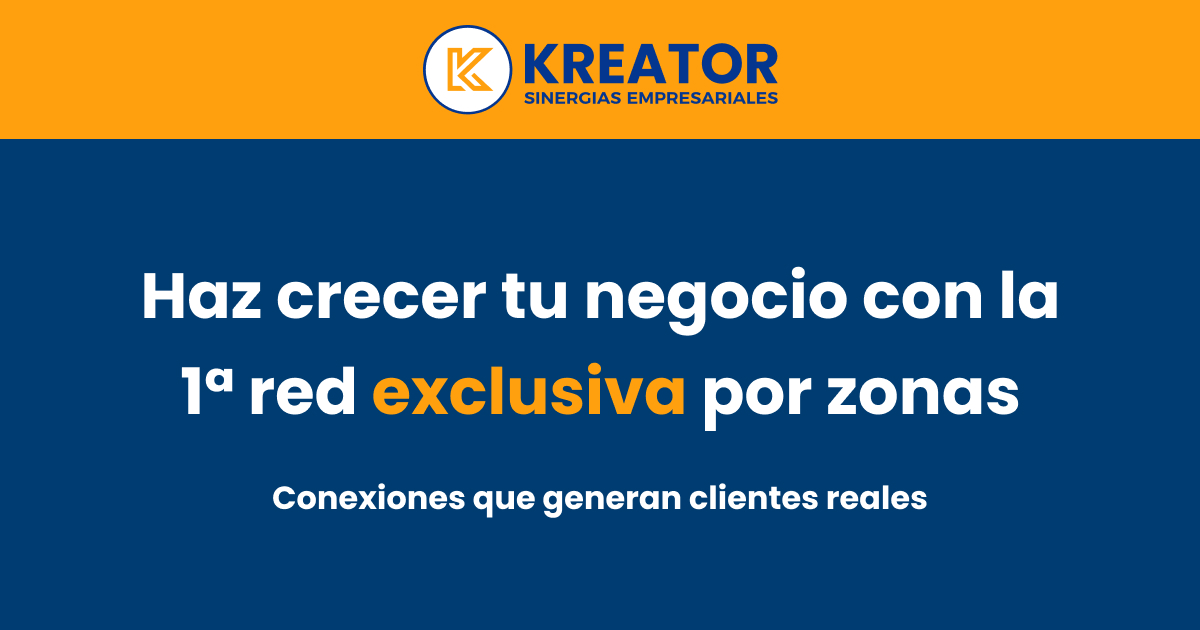
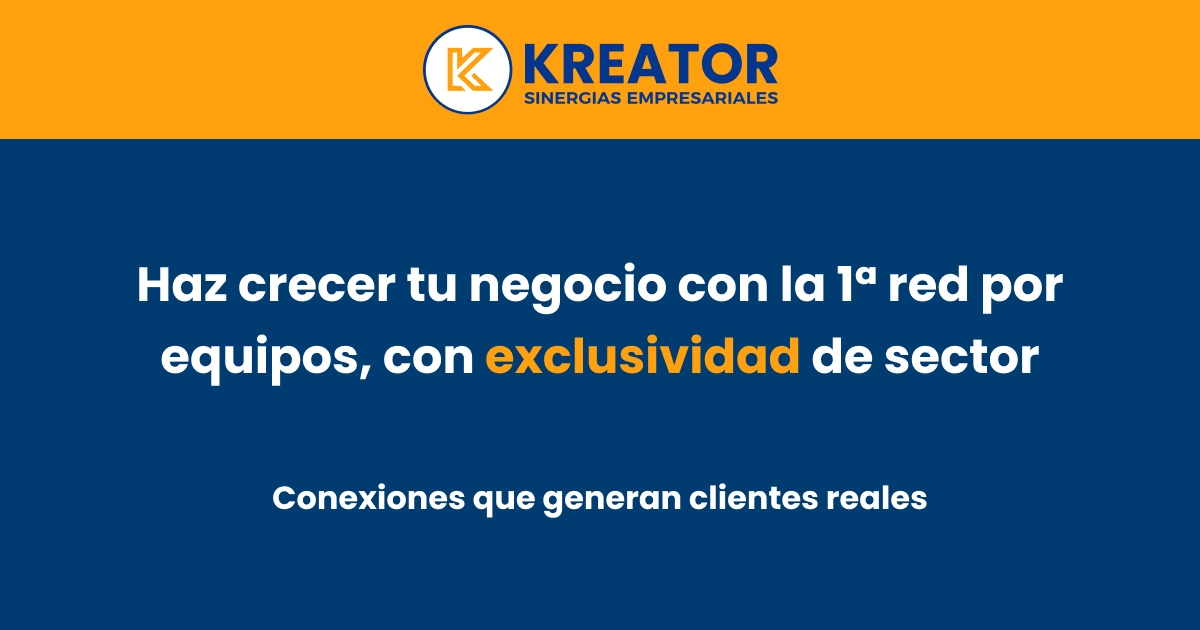
fix: update brand copy, layout metadata, and OG image to match new positioning

Changed region(s): [[0.0925, 0.4222, 0.8942, 0.6937], [0.3392, 0.0302, 0.6475, 0.181], [0.0, 0.2111, 1.0, 0.2413]]

diff --git a/src/app/layout.tsx b/src/app/layout.tsx
@@ -34,17 +34,17 @@ const baseUrl =
   (process.env.VERCEL_URL ? `https://${process.env.VERCEL_URL}` : "https://kreator-omega.vercel.app")
 
 export const metadata: Metadata = {
-  title: "Kreator - La 1ª Red Exclusiva por Zonas para Profesionales y Pymes",
+  title: "Kreator - La 1ª Comunidad Empresarial Colaborativa por Equipos",
   description:
-    "Únete a la primera red empresarial exclusiva por zonas. Un solo profesional por sector en tu área. Multiplica tus oportunidades, genera comisiones y amplía tu red de contactos. Sin permanencia.",
+    "Kreator es la primera comunidad empresarial colaborativa por equipos, creada para autónomos y pymes que quieren vender más, generar contactos de calidad y crecer en red. En cada equipo solo puede haber un profesional por sector, pero en una misma zona pueden coexistir varios equipos según el volumen de negocio disponible.",
   metadataBase: new URL(baseUrl),
   alternates: {
     canonical: "/",
   },
   openGraph: {
-    title: "Kreator - La 1ª Red Exclusiva por Zonas para Profesionales",
+    title: "Kreator - Comunidad Empresarial por Equipos para Profesionales y Pymes",
     description:
-      "Un solo profesional por sector en tu área. Multiplica tus oportunidades gracias a los contactos de todo tu equipo. Reserva tu plaza ahora.",
+      "Forma parte de la primera comunidad empresarial colaborativa por equipos. En cada equipo solo puede haber un profesional por sector, pero pueden existir varios equipos por zona según la demanda. Expande tu red, gana visibilidad y multiplica tus oportunidades.",
     url: baseUrl,
     siteName: "Kreator",
     images: [
@@ -52,7 +52,7 @@ export const metadata: Metadata = {
         url: `${baseUrl}/og-image.jpg`,
         width: 1200,
         height: 630,
-        alt: "Kreator - Red Exclusiva por Zonas para Profesionales",
+        alt: "Kreator - Comunidad Empresarial por Equipos para Profesionales y Pymes",
       },
     ],
     locale: "es_ES",
@@ -73,6 +73,7 @@ export const metadata: Metadata = {
     google: "your-google-verification-code",
   },
 }
+
 
 export default function RootLayout({
   children,

diff --git a/src/app/sitemap.ts b/src/app/sitemap.ts
@@ -1,12 +1,26 @@
 import type { MetadataRoute } from "next"
 
 export default function sitemap(): MetadataRoute.Sitemap {
-  const site = process.env.NEXT_PUBLIC_SITE_URL ?? "https://kreator.team"
-  const indexable = process.env.NEXT_PUBLIC_INDEXABLE === "true"
-  if (!indexable) return [] // do not generate sitemap until go-live
+  const site =
+    process.env.NEXT_PUBLIC_SITE_URL ??
+    (process.env.VERCEL_URL ? `https://${process.env.VERCEL_URL}` : "https://kreator-omega.vercel.app")
 
+  // Allows you to generate the sitemap both in production and in preview (if you want to see the OG working).
+  const indexable = process.env.NEXT_PUBLIC_INDEXABLE === "true"
+
+  // If not marked as indexable, returns empty so as not to expose the site before launch.
+  if (!indexable) return []
+
+  // Define indexable routes
   return [
-    { url: `${site}/`, lastModified: new Date(), changeFrequency: "weekly", priority: 1 },
-    // add routes where they exist
+    {
+      url: `${site}/`,
+      lastModified: new Date(),
+      changeFrequency: "weekly",
+      priority: 1,
+    },
+    // You can add the actual routes here as they become available.:
+    // { url: `${site}/registro`, lastModified: new Date(), changeFrequency: "monthly", priority: 0.8 },
+    // { url: `${site}/aviso-legal`, lastModified: new Date(), changeFrequency: "yearly", priority: 0.3 },
   ]
 }

diff --git a/src/app/robots.ts b/src/app/robots.ts
@@ -1,7 +1,33 @@
-export default function robots() {
+import type { MetadataRoute } from "next"
+
+export default function robots(): MetadataRoute.Robots {
   const indexable = process.env.NEXT_PUBLIC_INDEXABLE === "true"
-  const site = process.env.NEXT_PUBLIC_SITE_URL ?? "https://kreator.team"
-  return indexable
-    ? { rules: [{ userAgent: "*", allow: "/" }], sitemap: `${site}/sitemap.xml`, host: site }
-    : { rules: [{ userAgent: "*", disallow: "/" }] }
+
+  const site =
+    process.env.NEXT_PUBLIC_SITE_URL ??
+    (process.env.VERCEL_URL ? `https://${process.env.VERCEL_URL}` : "https://kreator-omega.vercel.app")
+
+  // If indexing is enabled (production environment or public preview)
+  if (indexable) {
+    return {
+      rules: [
+        {
+          userAgent: "*",
+          allow: "/",
+        },
+      ],
+      sitemap: `${site}/sitemap.xml`,
+      host: site,
+    }
+  }
+
+  // If we do not want to index (for example, in development or private staging)
+  return {
+    rules: [
+      {
+        userAgent: "*",
+        disallow: "/",
+      },
+    ],
+  }
 }
